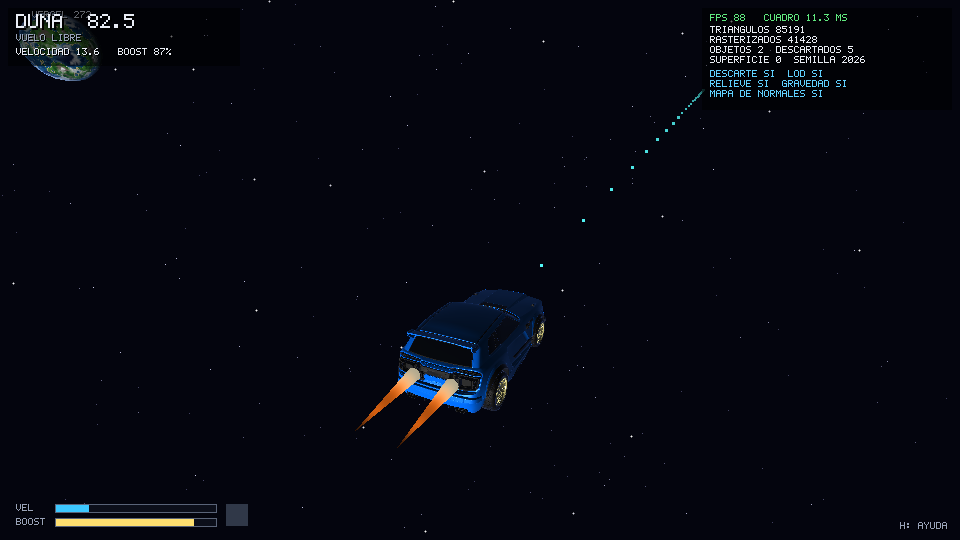
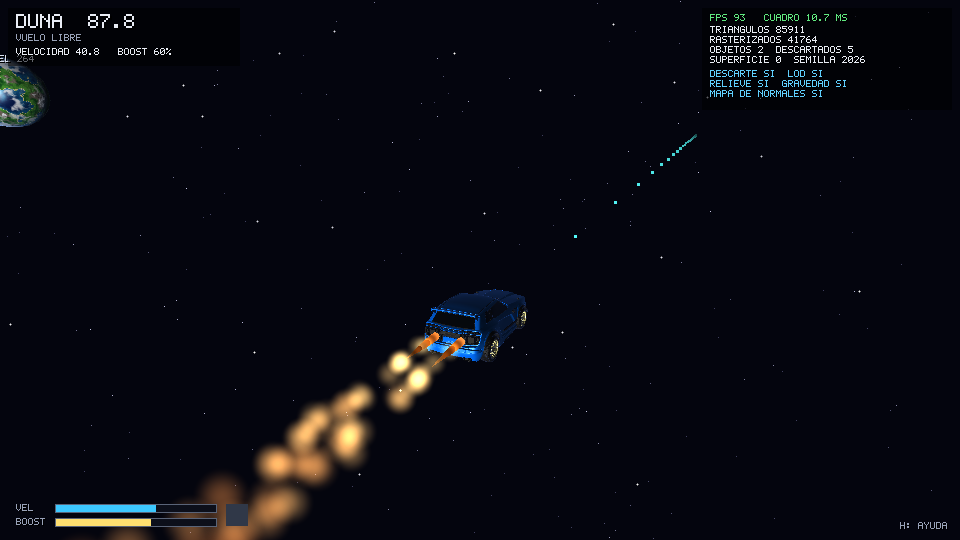
README con la llama y la estela del boost

Changed region(s): [[0.0938, 0.5333, 0.5938, 1.0], [0.0, 0.0, 0.125, 0.237], [0.0938, 0.9185, 0.1562, 0.9481]]

diff --git a/README.md b/README.md
@@ -125,7 +125,7 @@ Al arrancar tarda unos **3 segundos** en generar las superficies del sol y los p
 | `A` / `D` | Girar a la izquierda / derecha |
 | `↑` / `↓` | En vuelo libre: subir o bajar la nariz. En modo superficie: subir o bajar de altitud |
 | `Q` / `E` | Rodar sobre el eje del carro (como el air roll de Rocket League) |
-| `Shift` | Boost: sale fuego de los escapes del carro; dura 3 s y se recarga solo |
+| `Shift` | Boost: sale fuego de cohete de los escapes del carro y deja una estela; dura 3 s y se recarga solo |
 | `Espacio` | Freno fuerte que también detiene los giros y la deriva por gravedad |
 | Botón derecho + ratón | Mirar alrededor del carro. Al soltar, la cámara vuelve atrás |
 | Rueda del ratón | Acercar o alejar la cámara del carro |
@@ -201,7 +201,7 @@ src/
   ship.*              Física del carro: control, modo superficie, gravedad, colisión
   camera.*            Cámara de persecución
   hud.*, font.*       HUD y fuente propia de 5x7 píxeles
-  boost_flame.*       Llama del boost que sale de los escapes del Fennec
+  boost_flame.*       Llama de cohete del boost (escapes del Fennec) y estela de partículas
   mesh_builder.h      Ayudante para construir modelos en código con caras planas
 ```
 
@@ -250,8 +250,20 @@ Cada shader es una función que recibe el fragmento interpolado y devuelve su co
 | `ringShader` | Anillos | Vetas finas según la distancia al centro, luz por las dos caras y **sombra del planeta** (rayo hacia el sol contra su esfera) |
 | `ignisShader` | Volcánico | Roca con relieve y lava emisiva con pulsos de calor que avanzan con el tiempo |
 | `carShader` | Carro | Blinn-Phong con los materiales del modelo, **mapeo de normales en espacio tangente** (chasis, rines y llantas), borde Fresnel y faros emisivos |
-| `flameShader` | Llama del boost | Emisiva: blanca en el escape, del color de la llama en el medio y oscura en la punta, con parpadeo según el tiempo |
+| `flameShader` | Llama del boost | Emisiva. **Núcleo caliente** donde se mira a través de más fuego (centro de la silueta o a lo largo del eje), naranja en los bordes y rojo en la punta; pulsos que viajan hacia atrás con el tiempo |
 | `propShader` | Objetos de superficie | Lambert y especular por material, brillo propio y sombra del planeta (sin luz si el sol está bajo su horizonte) |
+
+### Boost: llama de cohete y estela ([boost_flame.cpp](src/boost_flame.cpp))
+
+- **Llama:** un penacho generado por revolución (se ensancha al salir del escape y se afila) en
+  cada uno de los dos escapes del Fennec, con `flameShader`.
+- **Estela:** mientras hay boost, cada escape suelta 400 partículas por segundo que quedan en el
+  mundo y viven ~0.6 s. Nacen blancas amarillas, pasan a naranja y rojo y terminan como humo gris
+  mientras crecen. Para que la estela salga continua aunque el carro vaya rápido, cada partícula
+  nace en el punto del camino del escape que corresponde a su instante dentro del cuadro.
+- **Dibujo:** cada partícula es un disco proyectado con `P · V` que pasa por la prueba de
+  profundidad (sin escribirla) y se **suma** al color del píxel (mezcla aditiva). Así se ve
+  translúcida sin necesitar transparencia en el pipeline y el orden de dibujo no importa.
 
 ### Mapeo de normales del carro ([texture.cpp](src/texture.cpp), [obj_loader.cpp](src/obj_loader.cpp), [shaders.cpp](src/shaders.cpp))
 
